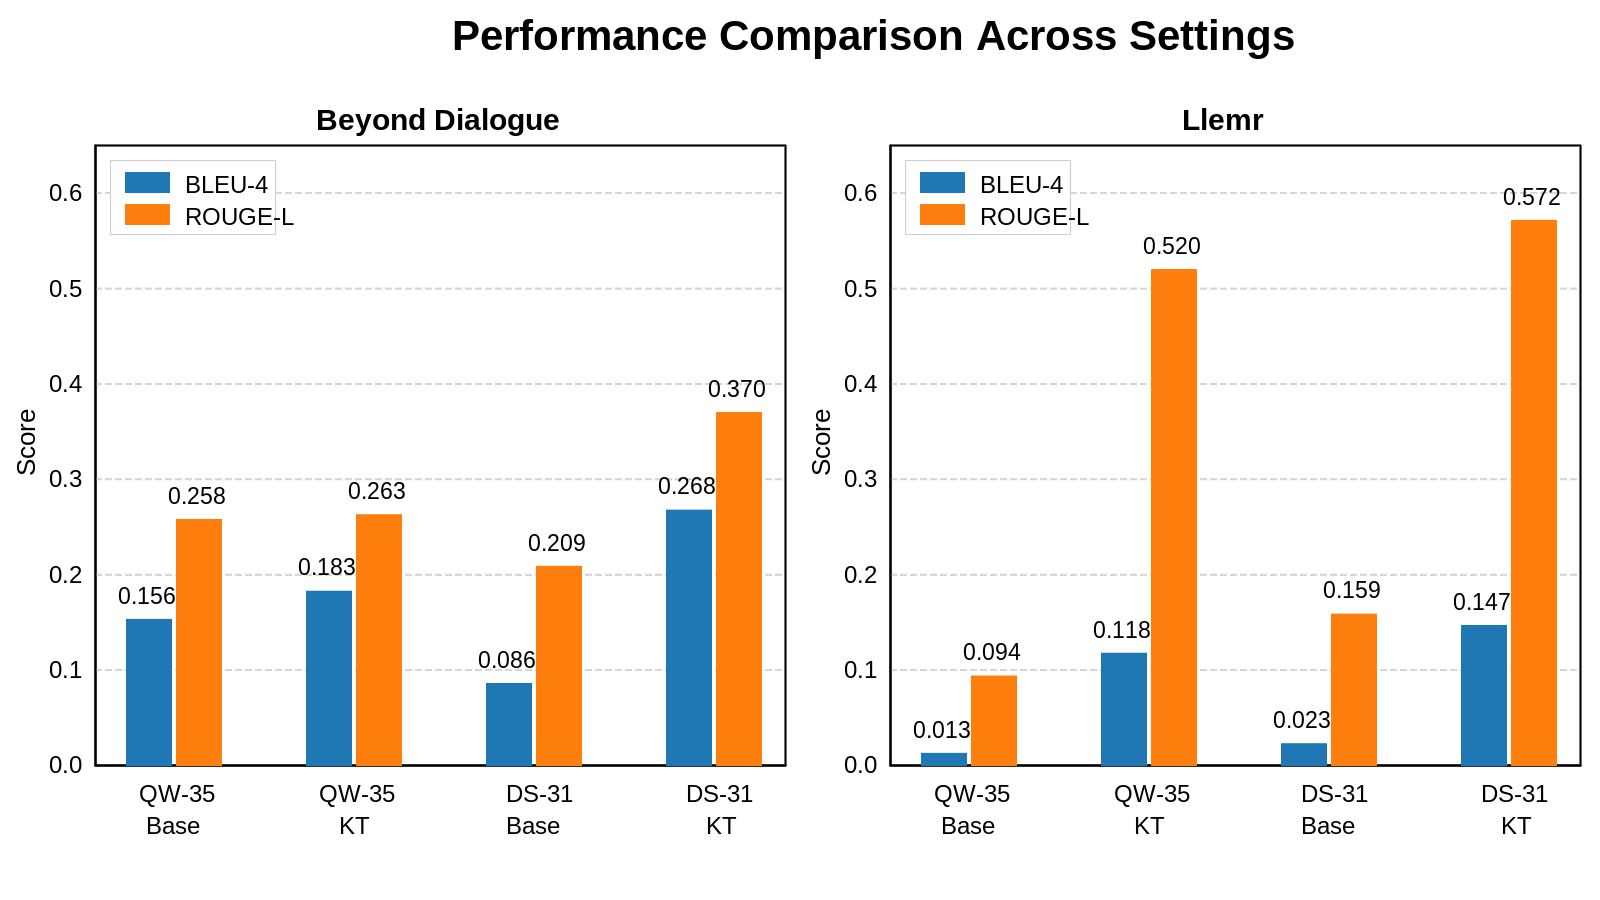
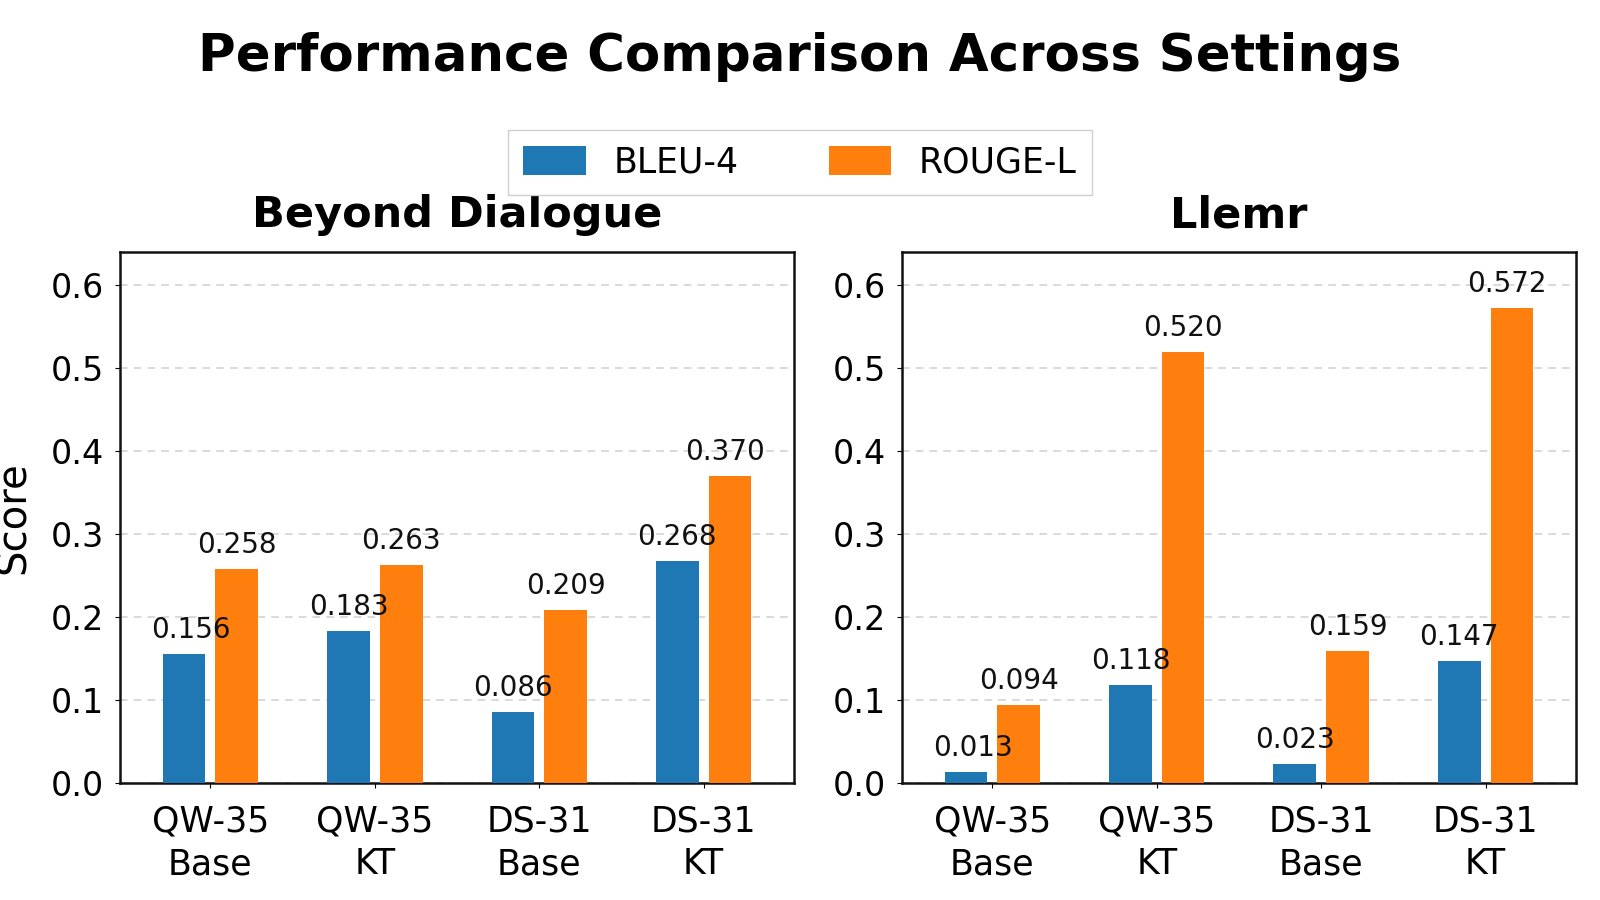
Update KTransformers SFT blog metadata

diff --git a/content/blog/kt-sft/index.md b/content/blog/kt-sft/index.md
@@ -3,8 +3,7 @@ title: "Fine-Tuning Huge MoE Models on Everyday GPUs with KTransformers"
 summary: "KTransformers makes large MoE fine-tuning more accessible: if you can run a model locally with KT, the next step should be tuning a LoRA adapter on the same kind of hardware."
 date: 2026-05-20
 authors:
-  - admin
-  - KVCache.ai Team
+  - Ktransformers Team
 tags:
   - KTransformers
   - Fine-Tuning
@@ -16,7 +15,7 @@ tags:
 commentable: false
 draft: false
 showathome: true
-home_weight: 18
+home_weight: 120
 ---
 
 ## Overview